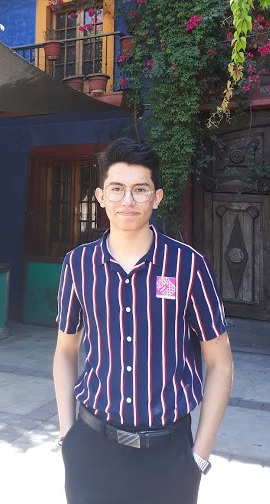
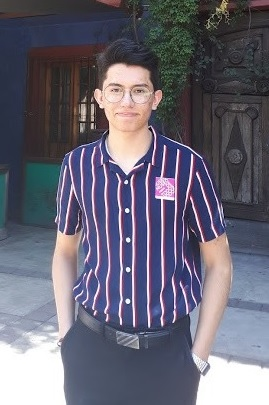
integracion completa

diff --git a/index.html b/index.html
@@ -43,9 +43,60 @@
     <div class="container-fluid">
         <div class="jumbotron">
             <center>
-                <h4 id="FSSD">FULL &nbsp; STACK &nbsp; SOFTWARE &nbsp; DEVELOPER.</h4>
+                <h4 id="welcome" class="mt-5">Welcome, I'm Fabián Eduardo Cruz Amador.</h4>
+                <br><br>
+                <table class="mt-5">
+                    <tr>
+                        <td style="width: 30vw;">
+                            <center>
+                                <img src="/style/images/me.jpg" width="55%" style="min-width: 100px; border-radius: 5px;">
+                            </center>
+                        </td>
+                        <td>
+                            <p class="fssd-info">
+                                FULL STACK SOFTWARE ENGINEER.
+                            </p>
+                            <p class="info">
+                                Im coursing a <u>"Software Technology Engineering"</u> degree in Nuevo León, México.<br><br><br>
+                                I have +10 programming certificates and more than 12 projects on my github.
+                            </p>
+                        </td>
+                    </tr>
+                </table>
+                <br>
+        <button class="collapsible">About certificates and constancies:</button>
+        <div class="content">
+            <div class="back2">
+                <p>
+                    I have participed in some extra courses where I learn more stuff about programming. I have done some
+                    presential
+                    courses and digital courses. However, nowadays I keep doing digital courses because are more
+                    flexible in terms of time.<br>
+                    Here are some pictures of my presential courses.
+                </p>
+                <center>
+                    <img src="../style/images/info/2.jpg" alt="image" width="45%"
+                        style="border-radius: 5px; margin-right: 2vw;">
+                    <img src="../style/images/info/3.jpg" alt="image" width="40%" style="border-radius: 5px;">
+                </center>
+                <br>
+                <p>
+                    You can see my certificates of <a href="../style/images/Web.jpeg" target="_blank"><u>Web
+                            Programming</u></a>,
+                    <a href="../style/images/Linux.jpeg" target="_blank"><u>Linux</u></a>,
+                    <a href="../style/images/Android.jpeg" target="_blank"><u>Android Programming</u></a>.
+                    <br><br>
+                    as for the digital courses, most of them dont havce a certificate, but I have done some of
+                    SOLOLEARN, and there are a few of them:
+                    <center>
+                        <img src="../style/images/info/4.jpg" alt="image" width="45%" style="margin-right: 2vw;">
+                        <img src="../style/images/info/5.jpg" alt="image" width="45%">
+                    </center>
+                </p>
+            </div>
+        </div>
             </center>
-            <br>
+            <br><br><br><br>
             <center>
                 <a href="https://github.com/FabianCruz-0" target="_blank"><img id="circ1" style="width: 5vw;"
                         name="animacion" src="/style/images/github.png" class="rounded-circle img-fluid" alt="Github"
@@ -138,6 +189,7 @@
     <script src="https://stackpath.bootstrapcdn.com/bootstrap/4.3.1/js/bootstrap.min.js"
         integrity="sha384-JjSmVgyd0p3pXB1rRibZUAYoIIy6OrQ6VrjIEaFf/nJGzIxFDsf4x0xIM+B07jRM"
         crossorigin="anonymous"></script>
+        <script src="/informacion/main.js"></script>
 </body>
 
 </html>

diff --git a/informacion/info_index.html b/informacion/info_index.html
@@ -41,25 +41,10 @@
     <div class="moon"></div>
     <div class="container">
         <div class="presentacion">
-            <center>
-                <h4 id="welcome" class="mt-5">Welcome, Im Fabián Eduardo Cruz Amador.</h4>
-            </center>
-            <table class="mt-5">
-                <tr>
-                    <td style="width: 30vw;">
-                        <center>
-                            <img src="../style/images/me.jpg" width="70%" style="min-width: 100px; border-radius: 5px;">
-                        </center>
-                    </td>
-                    <td>
                         <p class="info">
                             At the time that im writing this, im coursing a <i><u>Software Engieering</u></i> degree in
                             <i><u>Facultad de Ingeniería Mecánica y Eléctrica</u></i>, in Nuevo León, México.
                         </p>
-                        <p class="info"></p>
-                    </td>
-                </tr>
-            </table>
         </div>
         <br>
         <button class="collapsible">¿Who am I?</button>
@@ -89,39 +74,7 @@
                 </center>
             </div>
         </div>
-        <br>
-        <button class="collapsible">About certificates and constancies:</button>
-        <div class="content">
-            <div class="back2">
-                <p>
-                    I have participed in some extra courses where I learn more stuff about programming. I have done some
-                    presential
-                    courses and digital courses. However, nowadays I keep doing digital courses because are more
-                    flexible in terms of time.<br>
-                    Here are some pictures of my presential courses (In the first photo im the guy at the very left. In
-                    the second i'm crouched at the middle ).
-                </p>
-                <center>
-                    <img src="../style/images/info/2.jpg" alt="image" width="45%"
-                        style="border-radius: 5px; margin-right: 2vw;">
-                    <img src="../style/images/info/3.jpg" alt="image" width="40%" style="border-radius: 5px;">
-                </center>
-                <br>
-                <p>
-                    You can see my certificates of <a href="../style/images/Web.jpeg" target="_blank"><u>Web
-                            Programming</u></a>,
-                    <a href="../style/images/Linux.jpeg" target="_blank"><u>Linux</u></a>,
-                    <a href="../style/images/Android.jpeg" target="_blank"><u>Android Programming</u></a>.
-                    <br><br>
-                    as for the digital courses, most of them dont havce a certificate, but I have done some of
-                    SOLOLEARN, and there are a few of them:
-                    <center>
-                        <img src="../style/images/info/4.jpg" alt="image" width="45%" style="margin-right: 2vw;">
-                        <img src="../style/images/info/5.jpg" alt="image" width="45%">
-                    </center>
-                </p>
-            </div>
-        </div>
+        
         <br>
         <button class="collapsible">About my 3D Models and Unity tests:</button>
         <div class="content">

diff --git a/style/css/index.css b/style/css/index.css
@@ -3,22 +3,33 @@ body{
     font-family: 'breakbold';
     overflow: hidden;
 }
+#welcome{
+    transition: transform 3s;
+    font-size: 3vw;
+    font-family: 'loveloblack';
+}
+.info{
+    margin-left: 5%;
+    font-size: 2vw;
+    text-align: justify;
+    font-family: 'loveloblack';
+}
+.fssd-info{
+    margin-left: 5%;
+    font-size: 3vw;
+    text-align: justify;
+    text-align: center;
+    transition: transform 1s;
+}
 .container-fluid{
     position: relative;
     animation: centrar 8s;
-    margin-top: 6vh;
+    margin-top: -7vh;
 }
 
 .jumbotron{
     background-color: transparent;
-    margin-top: -8vh;
 }
-#FSSD{
-    font-family: 'breakbold';
-    font-size: 4vw;
-    transition: transform 1s;
-}
-
 #circ1, #circ2, #circ3{
     margin-right: 2%;
     transition: 1s;
@@ -79,7 +90,7 @@ body{
     white-space: nowrap;
 }
 /*--------------ANIMACIONES----------*/
-#FSSD:hover{
+.fssd-info:hover{
     transform: translateY(-2.5vh);
 }
 
@@ -112,3 +123,53 @@ body{
 .ticket-item:hover{
     animation-play-state: paused;
 }
+#welcome:hover{
+    transform: scale(1.1,1.1);
+    text-decoration: underline;
+    }
+/*--------------Colpasables---------------------*/
+
+.collapsible {
+    background: linear-gradient(rgba(0,0,0,.6), rgba(0,0,0,.6)), url('../images/colaps.jpg');
+    background-position: top;
+    background-size: cover;
+    cursor: pointer;
+    padding: 18px;
+    width: 100%;
+    border: none;
+    text-align: left;
+    outline: none;
+    font-size: 1.5vw;
+    color: white;
+    box-shadow: 0px 0px 5px 1px #380038;
+    transition: transform 3s;
+    font-family: 'loveloblack';
+  }
+  
+  .collapsible:hover {
+    background-color: rgb(101, 117, 146) ;
+    transform: scale(1.05,1.05);
+  }
+
+  .content {
+    text-align: justify;
+    max-height: 0;
+    overflow: hidden;
+    transition: max-height 0.2s ease-out;
+    border: solid 2px white;
+    color: white;
+    font-size: 2vw;
+    font-family: Cambria, Cochin, Georgia, Times, 'Times New Roman', serif;
+  }
+  .collapsible:after {
+    font-weight: bold;
+    float: right;
+    margin-left: 5px;
+    color: black;
+  }
+  .back2{
+    background: linear-gradient(rgba(0,0,0,.4), rgba(0,0,0,.4)), url('/style/images/backs/back2.jpg');
+    background-size: cover;
+    background-position: center;
+    padding: 5vw;
+  }

diff --git a/style/css/info_index.css b/style/css/info_index.css
@@ -15,15 +15,8 @@ body{
     border-bottom: solid 2px gray;
     padding-bottom: 5vh;
 }
-#welcome{
-    transition: transform 1s;
-    font-size: 2vw;
-}
-.info{
-    margin-left: 5%;
-    font-size: 2vw;
-    text-align: justify;
-}
+
+
 
 .moon {
     position: absolute;
@@ -84,11 +77,7 @@ body{
 
 
 /*-----------------Animaciones-----------------*/
-#welcome:hover{
-transform: translateY(-2.5vh);
-transform: scale(1.2,1.2);
-text-decoration: underline;
-}
+
 
 @keyframes passingBy {
     0% {
@@ -138,12 +127,7 @@ text-decoration: underline;
         background-position: center;
         padding: 5vw;
       }
-      .back2{
-        background: linear-gradient(rgba(0,0,0,.4), rgba(0,0,0,.4)), url('../images/backs/back2.jpg');
-        background-size: cover;
-        background-position: center;
-        padding: 5vw;
-      }
+      
       .back3{
         background: linear-gradient(rgba(0,0,0,.7), rgba(0,0,0,.7)), url('../images/backs/back3.jpg');
         background-size: cover;
